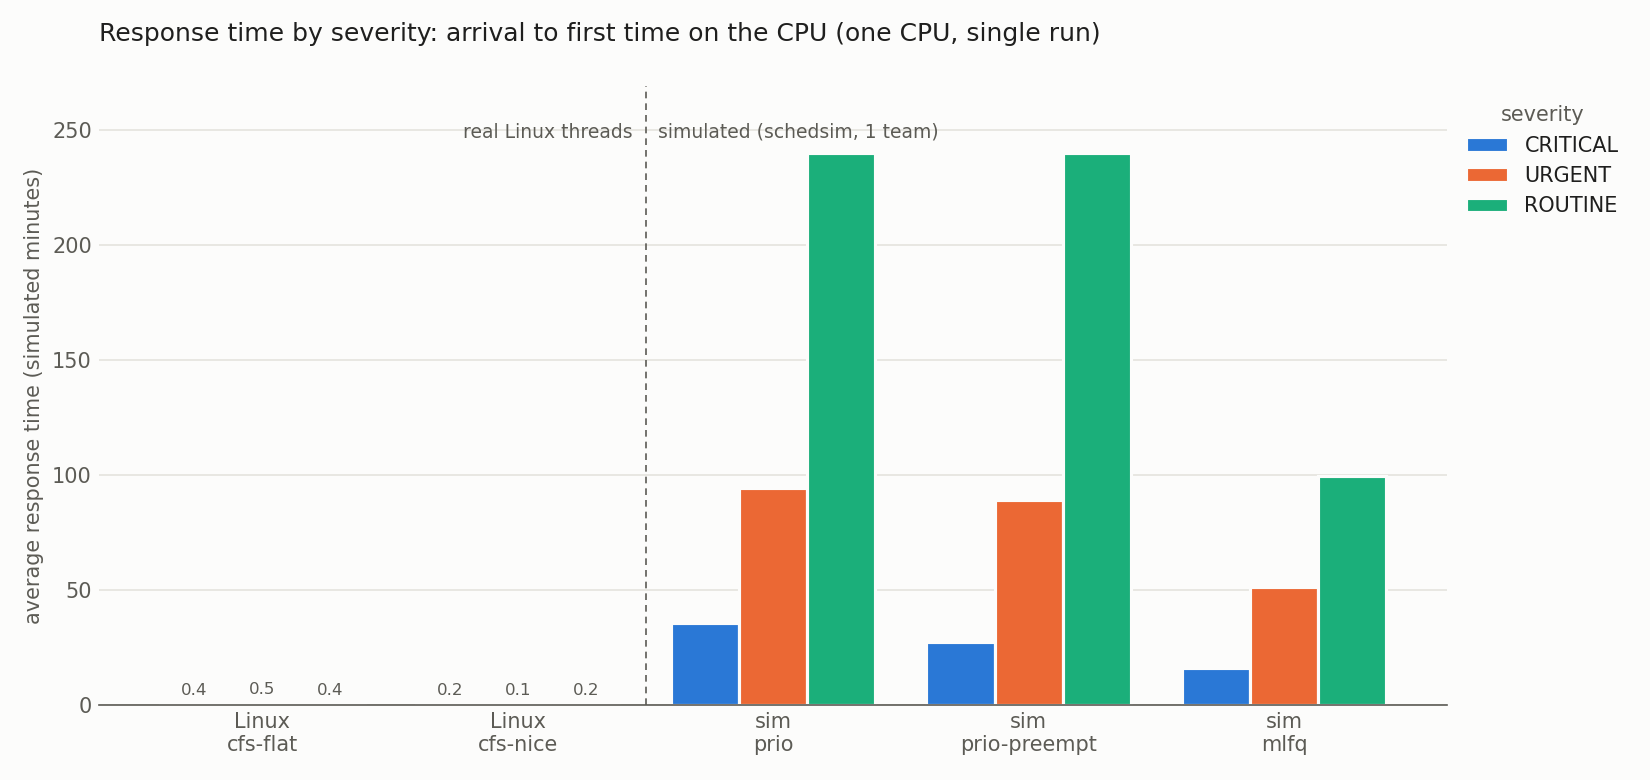
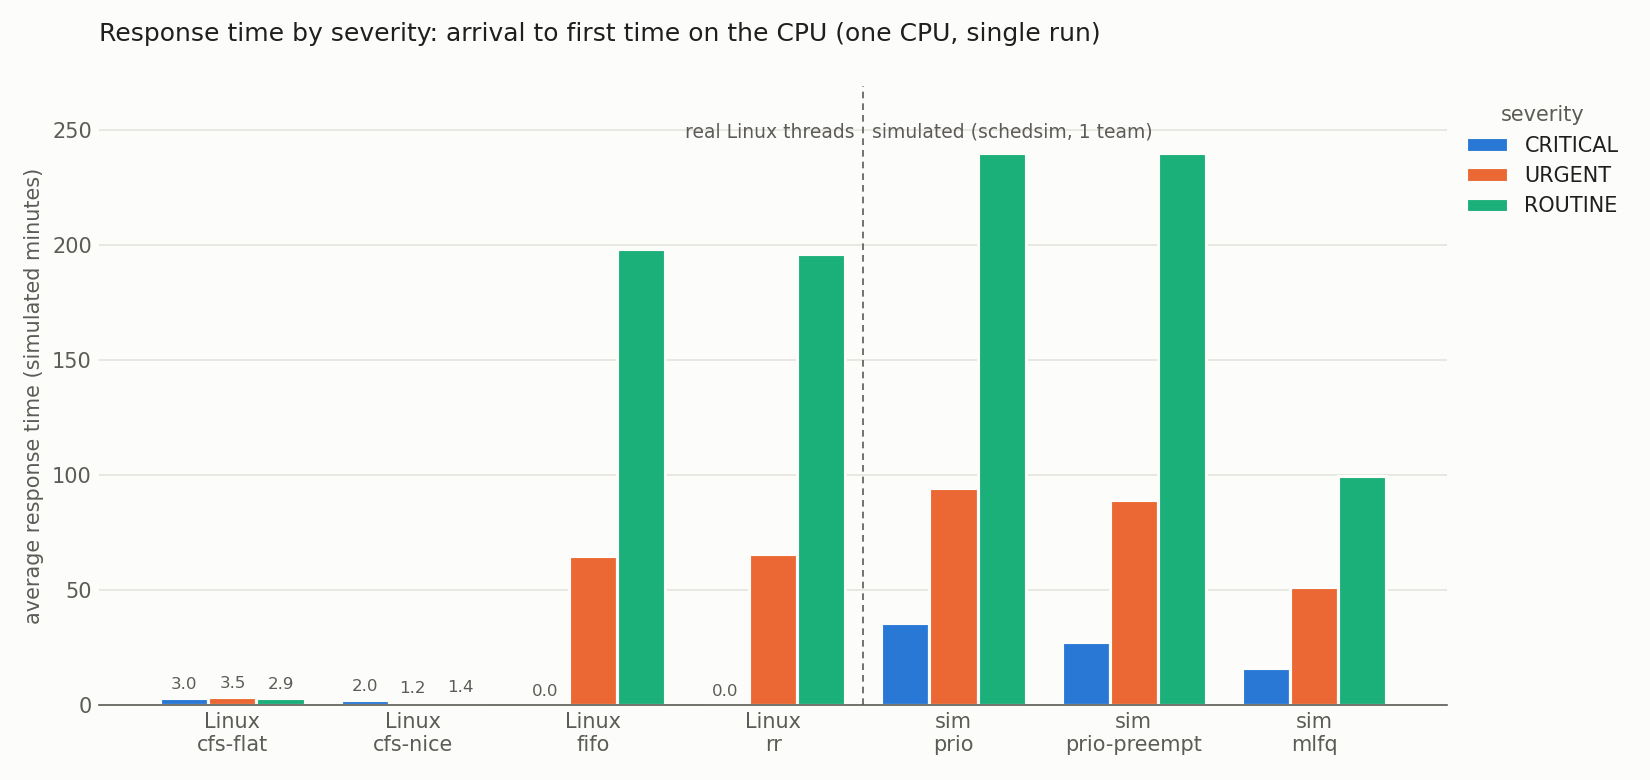
[Unit 2] E2: add SCHED_FIFO/SCHED_RR measurements, complete Linux vs simulated scheduling analysis

Changed region(s): [[0.2164, 0.1538, 0.8345, 0.9846], [0.0927, 0.8615, 0.2782, 0.9846]]

diff --git a/docs/EXPERIMENTS.md b/docs/EXPERIMENTS.md
@@ -6,7 +6,7 @@ Every experiment is deterministic for a given `--seed` and writes CSV to `experi
 | ID | Topic (Unit) | Question | Status |
 |----|--------------|----------|--------|
 | E1 | CPU scheduling (Unit 2) | Which triage policy serves CRITICAL requests fastest without starving the rest? | done |
-| E2 | Traditional and modern UNIX scheduling (Unit 2) | How do Linux's CFS/EEVDF + nice, SCHED_FIFO and SCHED_RR treat the same rescue workload, compared with textbook priority and our MLFQ? | CFS modes done; FIFO/RR need `CAP_SYS_NICE` |
+| E2 | Traditional and modern UNIX scheduling (Unit 2) | How do Linux's CFS/EEVDF + nice, SCHED_FIFO and SCHED_RR treat the same rescue workload, compared with textbook priority and our MLFQ? | done |
 
 ## E1: triage scheduling comparison
 
@@ -130,31 +130,32 @@ implemented by EEVDF. The machine has 16 CPUs. Real-time throttling is on (`sche
   | `fifo` | `SCHED_FIFO` | real-time priority 30 / 20 / 10 |
   | `rr` | `SCHED_RR` | real-time priority 30 / 20 / 10 |
 
-  Without `CAP_SYS_NICE`, negative nice is refused (`RLIMIT_NICE` = 0), so `cfs-nice` uses **0 / +5 / +10**.
-  The spacing is the same, and fair-class weights depend only on nice *differences*, so the CPU shares
-  are identical. FIFO/RR always need `CAP_SYS_NICE`.
-- **Simulated counterparts:** `schedsim --teams 1` on the same scenario: `prio`, `prio` preemptive, and `mlfq`
-  with age 60. E1's numbers are not reused here, because E1 used 3 teams on a different load.
+  FIFO/RR and negative nice need `CAP_SYS_NICE`, granted once with
+  `sudo setcap cap_sys_nice+ep build/linuxsched`. Without it, `cfs-nice` falls back to 0 / +5 / +10
+  (same spacing, same CPU shares) and FIFO/RR are skipped.
+- **Thread creation:** with the capability, the thread that creates the workers runs at `SCHED_FIFO` 40,
+  above every worker, so arrivals stay on time (creation lag ≤ 0.83 ms here).
+- **Simulated counterparts:** `schedsim --teams 1` on the same scenario: `prio`, `prio` preemptive, and
+  `mlfq` with age 60. E1's numbers are not reused here, because E1 used 3 teams on a different load.
 - **Safety:**
-  - A watchdog thread (at the highest `SCHED_FIFO` priority when allowed) aborts any run after 30 s.
+  - A watchdog thread at the highest `SCHED_FIFO` priority aborts any run after 30 s, so a FIFO bug
+    cannot freeze WSL.
   - Scenarios needing more than 10 s of CPU are refused.
-  - With privilege, the thread that creates the workers runs at `SCHED_FIFO` 40, above every worker,
-    so arrivals stay on time.
-  - `tests/linuxsched.sh` checks the pinning, the CPU-time budget, the nice spacing, the budget
-    refusal, and that the watchdog really aborts a runaway run.
-- **Reproduce:** `make e2` (or `experiments/run_e2.sh` then `experiments/plot_e2.py`). For FIFO/RR, first run
-  `sudo setcap cap_sys_nice+ep build/linuxsched`; every rebuild drops this.
+  - `tests/linuxsched.sh` checks the pinning, the CPU-time budget, the nice spacing, the budget refusal,
+    and that the watchdog really aborts a runaway run.
+- **Reproduce:** `make e2` (or `experiments/run_e2.sh` then `experiments/plot_e2.py`). Every rebuild of
+  `linuxsched` drops the capability, so rerun `setcap` after `make`.
 
 ### Results
-Simulated minutes; a single run each. Linux timings vary slightly between runs: a rerun of `cfs-flat`
-gave a CRITICAL wait of 235 instead of 237.
+Simulated minutes; a single run of each mode, all four in the same privileged run. Linux timings vary a
+little between runs (`cfs-flat` CRITICAL wait: 235, 237 and 251 in three runs).
 
 | Variant | Response CRIT | Response URG | Response ROUT | Wait CRIT | Wait URG | Wait ROUT |
 |---------|-------------:|------------:|-------------:|---------:|--------:|---------:|
-| Linux `cfs-flat` | 0.4 | 0.5 | 0.4 | 237.0 | 131.5 | 76.8 |
-| Linux `cfs-nice` | 0.2 | 0.1 | 0.2 | 120.2 | 139.5 | 189.2 |
-| Linux `fifo` | *not yet measured* | | | | | |
-| Linux `rr` | *not yet measured* | | | | | |
+| Linux `cfs-flat` | 3.0 | 3.5 | 2.9 | 250.9 | 142.7 | 83.6 |
+| Linux `cfs-nice` | 2.0 | 1.2 | 1.4 | 128.8 | 149.6 | 201.2 |
+| Linux `fifo` | **0.0** | 64.8 | 198.3 | **23.4** | 93.0 | 210.4 |
+| Linux `rr` | **0.0** | 65.6 | 195.8 | 31.7 | 97.9 | 209.9 |
 | sim `prio` | 35.5 | 94.4 | 240.0 | 35.5 | 94.4 | 240.0 |
 | sim `prio` preemptive | 27.3 | 88.9 | 240.0 | 27.3 | 96.4 | 247.6 |
 | sim `mlfq` | 16.1 | 51.1 | 99.5 | 184.2 | 122.6 | 129.2 |
@@ -166,36 +167,51 @@ gave a CRITICAL wait of 235 instead of 237.
 - **Textbook priority is strict:** a higher-priority job always runs first, and lower ones wait
   (possibly forever). **The fair class is proportional:** every runnable thread gets CPU in proportion
   to its weight, and none is starved.
-- **Response is almost zero in both fair modes**, 0.1–0.5 simulated minutes (under 2 ms of real time).
-  EEVDF gives every runnable thread a short slice soon after it wakes, so nice barely affects *when* a
-  thread first runs.
+- **Every fair-class thread starts within a few milliseconds**, 1–3.5 simulated minutes (4–14 ms), whatever
+  its nice value. A new thread waits for EEVDF to reach its virtual deadline, which takes a few slices,
+  but never for a whole higher-priority job. nice barely affects *when* a thread first runs.
 - **nice changes the share, so it shows up in the wait.**
   - With nice 0 for everyone (`cfs-flat`), the CPU is shared equally. Long jobs then finish last, so
-    CRITICAL rescues (15–45 min of work) wait the *longest* (237 min) and short ROUTINE kits the shortest (77).
-  - With nice spacing of 5 (`cfs-nice`), the weights are 1024 / 335 / 110, so a CRITICAL thread gets
-    about 9× the share of a ROUTINE one. That halves the CRITICAL wait (237 → 120) and roughly doubles
-    the ROUTINE wait (77 → 189).
-  - It is still far from textbook priority (CRITICAL waits 27–36 min), because ROUTINE threads keep
+    CRITICAL rescues (15–45 min of work) wait the *longest* (251 min) and short ROUTINE kits the shortest (84).
+  - With nice −5 / 0 / +5, the weights are 3121 / 1024 / 335, so a CRITICAL thread gets about 9× the share
+    of a ROUTINE one. That halves the CRITICAL wait (251 → 129) and more than doubles the ROUTINE wait
+    (84 → 201).
+  - It is still far from strict priority (CRITICAL waits 23–36 min), because ROUTINE threads keep
     getting their share.
+- **Method note:** in an earlier run without the capability, the creating thread was itself an ordinary
+  fair-class thread. There the fair modes showed responses of only 0.1–0.5 simulated minutes, because
+  waking the creator tended to hand the CPU straight to the newly created thread. The wait results
+  were the same within noise (CRITICAL 237 / 120). How a thread is created changes its first-run latency
+  under EEVDF, which is why all four modes above use the same privileged creator.
 
 ### What SCHED_FIFO does to low priorities
-Not measured yet: this account has no `CAP_SYS_NICE`. This section will be completed with the `fifo`
-and `rr` rows above once `sudo setcap cap_sys_nice+ep build/linuxsched` has been run and `make e2` rerun.
-The question it answers: SCHED_FIFO is strict priority with no time slicing. A thread runs until it
-blocks, yields or is preempted by a higher real-time priority, so lower priorities get the CPU only when
-no higher one is runnable. SCHED_RR adds a 100 ms time slice, but only among threads of the *same*
-priority. RT throttling reserves 5% of each second for non-real-time tasks, not for lower real-time
-priorities.
+- **CRITICAL threads (priority 30) run the instant they arrive** (response 0.0) and are never preempted by
+  lower priorities, so their wait (23.4) is the lowest of every variant.
+- **Lower priorities run only when no higher real-time thread is runnable.** URGENT threads wait on
+  average 65 simulated minutes before their *first* instruction (409 at worst), ROUTINE threads 198 (900 at
+  worst): 23 of 60 ROUTINE threads waited over 2 simulated hours just to start. Under a longer stream of
+  CRITICAL work they would never run at all, which is classic starvation. RT throttling (95%) reserves
+  time only for *non-real-time* tasks, not for lower real-time priorities.
+- **SCHED_RR is almost the same,** because its 100 ms time slice (25 simulated minutes) only rotates
+  threads of *equal* priority. That rotation is visible in one place: CRITICAL wait rises from 23.4 to 31.7
+  when long CRITICAL rescues take turns instead of running to completion.
+- **Our simulator predicts this:** Linux `fifo` (23 / 93 / 210) matches sim `prio` preemptive
+  (27 / 96 / 248) closely. The simulation preempts only at minute boundaries, and Linux preempts
+  immediately, which is why Linux is slightly better for CRITICAL.
 
 ### How close our MLFQ gets
-- **Response:** MLFQ gives a much better response than textbook priority (16 / 51 / 100 vs 27–36 / 89–94 / 240).
-  It is nowhere near the fair class, where everyone starts within about a minute.
-- **Wait:** MLFQ's pattern resembles `cfs-flat`, not priority: CRITICAL waits longest (184 vs 237 in
-  `cfs-flat`), while URGENT and ROUTINE are close (123/129 vs 132/77). At 90% load, aging and demotion
+- **Response:** MLFQ gives a much better response than textbook priority for URGENT and ROUTINE
+  (51 / 100 vs 89–94 / 240), and starts CRITICAL work within 16 min. It is nowhere near Linux FIFO for
+  CRITICAL (0) or the fair class for everyone (1–3.5).
+- **Wait:** MLFQ's pattern resembles `cfs-flat`, not priority: CRITICAL waits longest (184 vs 251 in
+  `cfs-flat`), while URGENT and ROUTINE are close (123 / 129 vs 143 / 84). At 90% load, aging and demotion
   turn MLFQ into something close to fair sharing, which is the same effect E1 found.
-- **Overall:** of the variants measured so far, `cfs-nice` is the most balanced: the lowest CRITICAL
-  wait outside strict priority, and nobody starves. Strict priority (sim `prio`) remains the only way to
-  keep CRITICAL waits around half an hour (27–36 min), and it pays with ROUTINE starvation.
+- **Overall:** Linux offers both extremes. FIFO is strict priority (best for CRITICAL, starves the rest);
+  the fair class with nice is proportional share (nobody starves, CRITICAL still waits two hours). Our
+  MLFQ sits between them but closer to fair sharing.
+- **For relief triage:** run life-critical work as real-time FIFO, cap it so it cannot monopolise the
+  CPU (which RT throttling only partly does), and give the rest weighted fair sharing. That is the
+  design Linux itself uses.
 
 ## Baseline (Phase 2 step 2)
 `schedsim --teams 3` on `scenarios/flood_pune.csv` (200 requests in 360 min, permanently overloaded). The

diff --git a/CLAUDE.md b/CLAUDE.md
@@ -117,4 +117,4 @@ Work the phases in order. Within a phase, ship all P0 features before any P1/P2.
 
 ## Current status
 Phase 1 complete (gate M1). Phase 2: steps 1-4 done (scheduler + 6 policies, `schedsim`, live teams in reliefd,
-E1 done: hypothesis not supported); step 5 E2 (real Linux scheduling) done for CFS modes, FIFO/RR await setcap.
+E1: hypothesis not supported); step 5 E2 done (Linux FIFO ≈ sim preemptive prio; MLFQ ≈ fair sharing).
